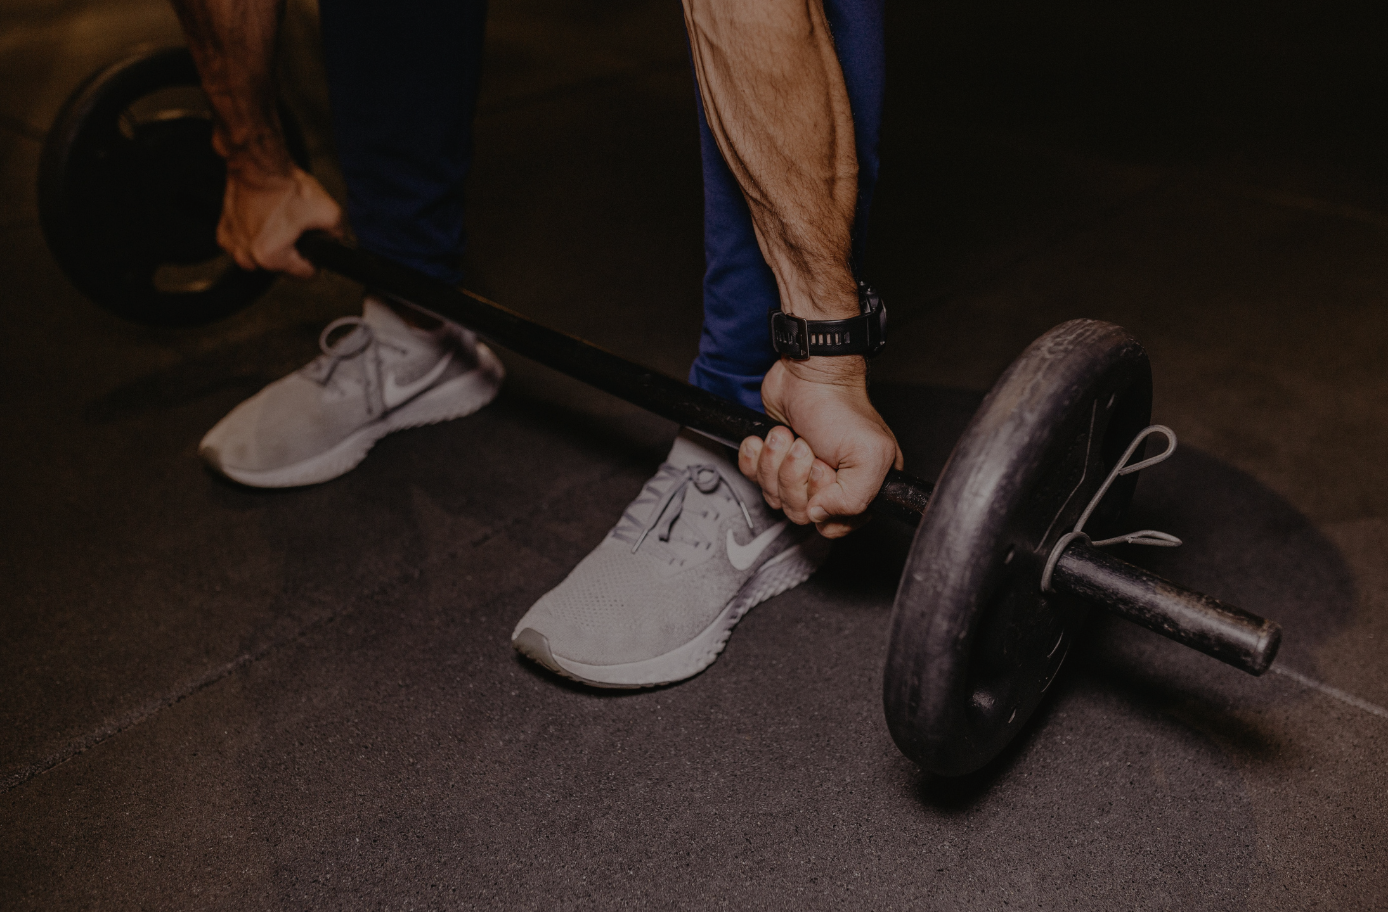
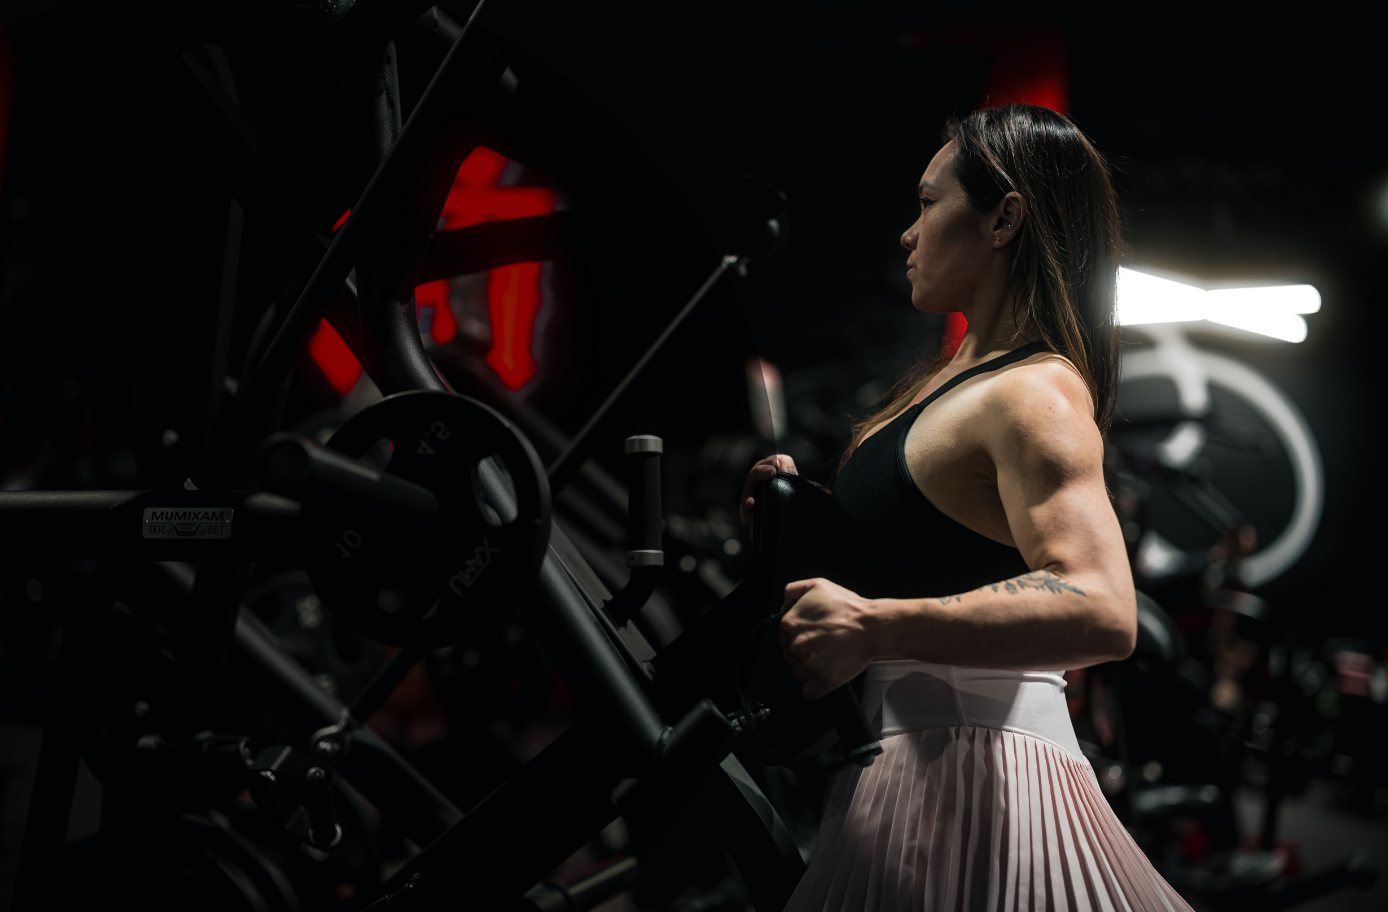
melhorando o projeto

diff --git a/index.html b/index.html
@@ -42,14 +42,35 @@
             <img src="imagens/4.png" alt="Pessoas de todas as idades são bem-vindos">
             <img src="imagens/5.png" alt="Parceria com nutricionistas">
         </div>
-        
+        <input type="button" value="AGENDE SUA  AULA" class="btn" id="agende">
     </secton>
     <section id="modalidades">
+            <h2 class="claro">Encontre a modalidade <span class="destaque">perfeita para você</span></h2>
+            <div class="cards">
+                <img src="imagens/modalidades/1.png" alt="Muay Thai">
+                <img src="imagens/modalidades/2.png" alt="Musculação">
+                <img src="imagens/modalidades/3.png" alt="Jiu Jitsu">
+                <img src="imagens/modalidades/4.png" alt="Yoga">
+            </div>
+            <input type="button" value="CONHEÇA TODAS AS MODALIDADES">
+    </section>
+    <section id="avaliacoes">
 
     </section>
     <section id="contato">
 
     </section>
+    <footer>
+        <img src="logo.png" alt="Logo">
+        <div class="social-btn">
+            <a href="https://web.whatsapp.com/" target="_blank">
+                <img src="imagens/whatsapp.png" alt="WhatsApp">
+            </a>
+            <a href="https://www.instagram.com/victor.luan.costa.matos/" target="_blank">
+                <img src="imagens/insta.png" alt="Instagram">
+            </a>
+        </div>
+    </footer>
 </body>
 </html>
 

diff --git a/style.css b/style.css
@@ -35,7 +35,7 @@ nav#meio > a {
 }
 
 nav#meio a:hover {
-    color: rgb(255, 132, 132);
+    color: rgb(255, 0, 0);
     text-decoration: underline;
 }
 
@@ -62,6 +62,8 @@ nav#meio a:hover {
 section#home {
     color: white;
     padding: 100px;
+    padding-bottom: 250px;
+    padding-top: 150px;
 }
 
 .destaque {
@@ -77,6 +79,7 @@ section#home h1 {
 
 section#home p {
     margin: 20px;
+    font-weight: bolder;
 }
 
 #reserve {
@@ -91,8 +94,21 @@ h2 {
 }
 
 div.cards {
-    display: flex;
-    justify-content: center;
+    display: grid;
+    grid-template-columns: repeat(3, 1fr);
+    gap: 30px;
+    margin: auto;
     padding: 30px;
-    margin: 30px;
+}
+
+div.cards img {
+    border-radius: 10px;
+}
+
+section#modalidades {
+    background-color: black;
+}
+
+.claro {
+    color: white;
 }
